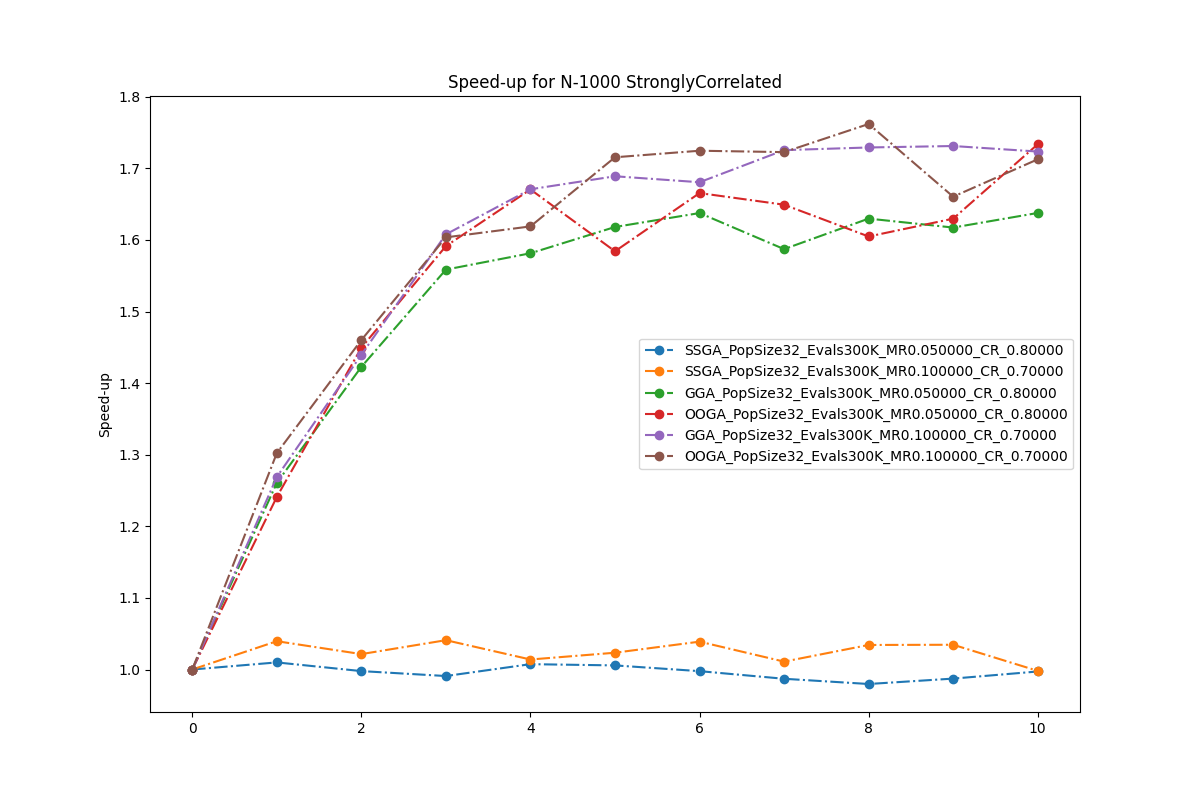
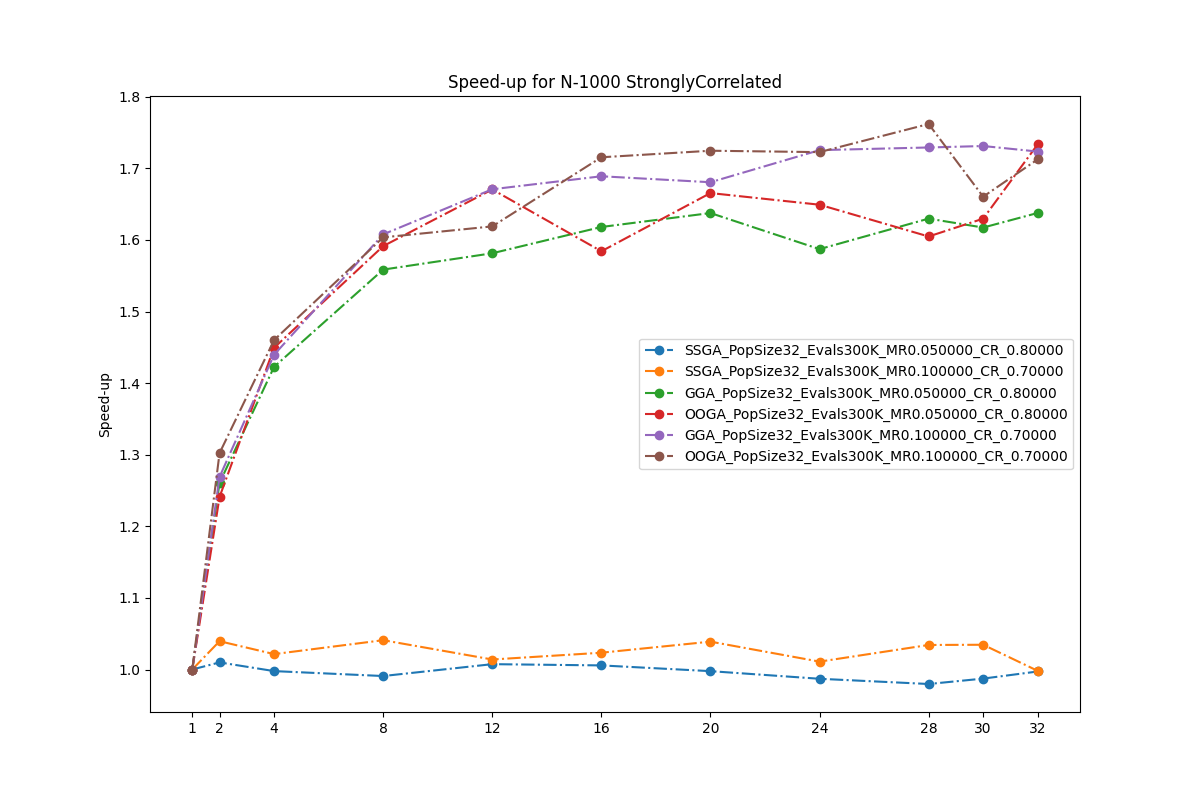
feat: updates xticks in scalability plots

diff --git a/script/scalability.py b/script/scalability.py
@@ -57,12 +57,14 @@ def to_speed_up_plot(df_results, instance):
 
     print(df_results)
     plt.figure(figsize=(12, 8))
+    ticks = df_results.columns.values.tolist()
     for index, _ in df_results.iterrows():
         data = df_results.loc[index].values.tolist()
-        plt.plot(data, linestyle='-.', marker='o', label=index)
+        plt.plot(ticks, data, linestyle='-.', marker='o', label=index)
 
     plt.title(f'Speed-up for N-1000 {instance}')
     plt.ylabel('Speed-up')
+    plt.xticks(ticks)
     plt.legend()
     plt.savefig(f'Speed-up_{instance}.png')
     plt.clf()
